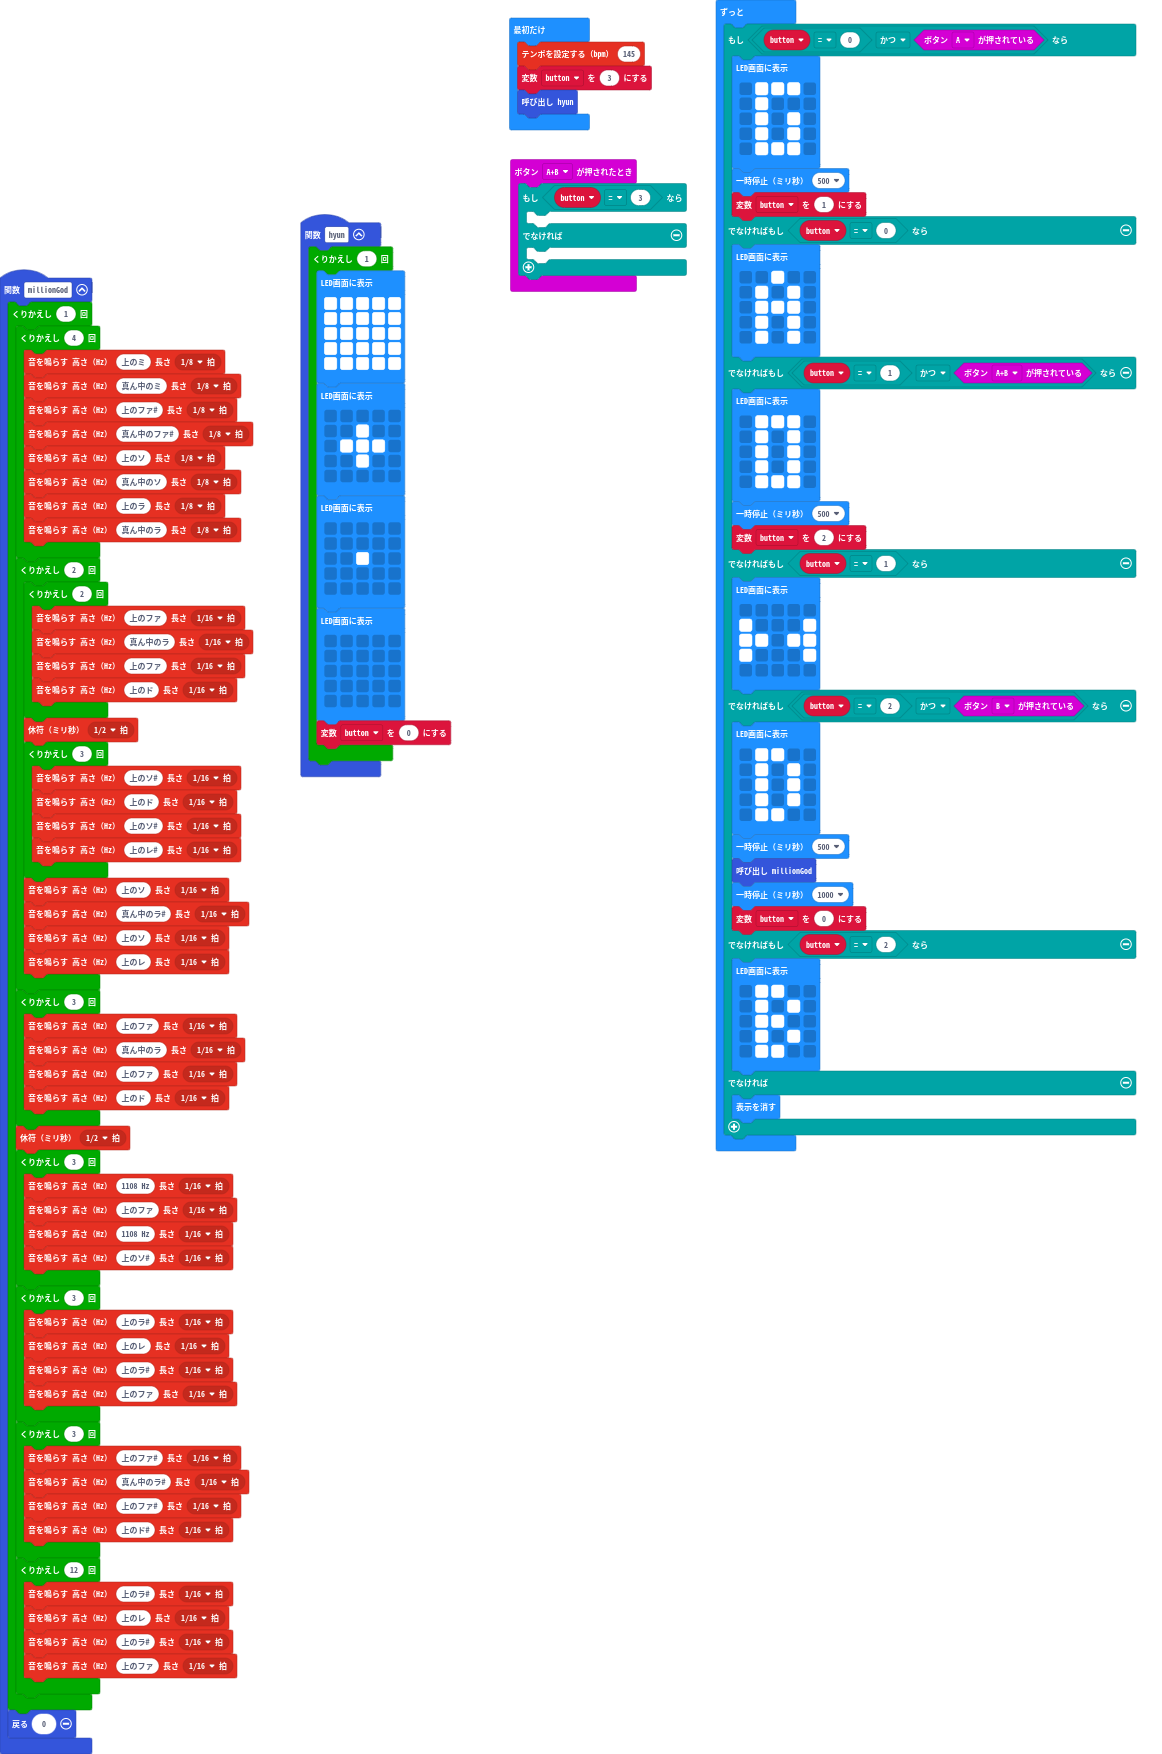
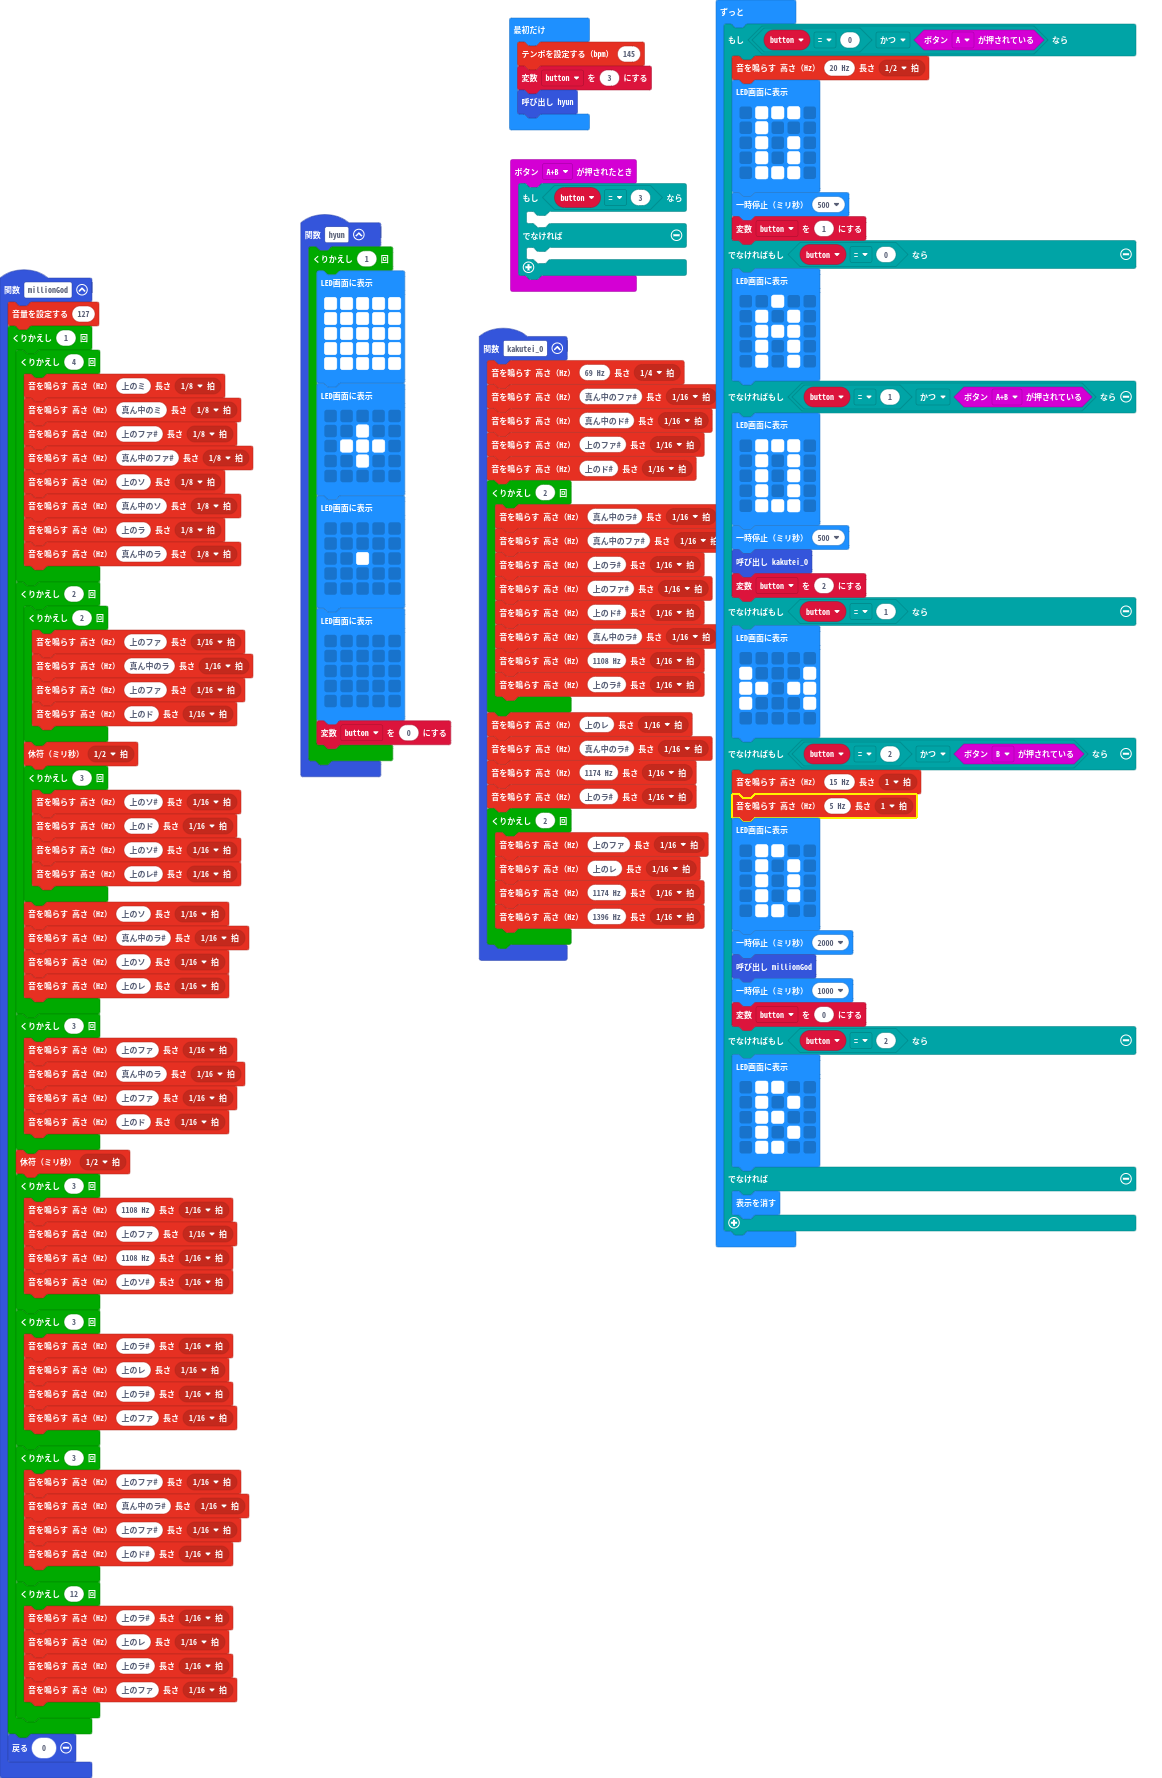
更新 main.blocks, main.ts

Changed region(s): [[0.2478, 0.0, 0.9914, 0.7081], [0.0, 0.1539, 0.2169, 0.9852], [0.8055, 0.0, 0.8985, 0.0308]]

diff --git a/main.ts b/main.ts
@@ -1,3 +1,30 @@
+function kakutei_O () {
+    music.playTone(69, music.beat(BeatFraction.Quarter))
+    music.playTone(370, music.beat(BeatFraction.Sixteenth))
+    music.playTone(277, music.beat(BeatFraction.Sixteenth))
+    music.playTone(740, music.beat(BeatFraction.Sixteenth))
+    music.playTone(554, music.beat(BeatFraction.Sixteenth))
+    for (let index = 0; index < 2; index++) {
+        music.playTone(466, music.beat(BeatFraction.Sixteenth))
+        music.playTone(370, music.beat(BeatFraction.Sixteenth))
+        music.playTone(932, music.beat(BeatFraction.Sixteenth))
+        music.playTone(740, music.beat(BeatFraction.Sixteenth))
+        music.playTone(554, music.beat(BeatFraction.Sixteenth))
+        music.playTone(466, music.beat(BeatFraction.Sixteenth))
+        music.playTone(1108, music.beat(BeatFraction.Sixteenth))
+        music.playTone(932, music.beat(BeatFraction.Sixteenth))
+    }
+    music.playTone(587, music.beat(BeatFraction.Sixteenth))
+    music.playTone(466, music.beat(BeatFraction.Sixteenth))
+    music.playTone(1174, music.beat(BeatFraction.Sixteenth))
+    music.playTone(932, music.beat(BeatFraction.Sixteenth))
+    for (let index = 0; index < 2; index++) {
+        music.playTone(698, music.beat(BeatFraction.Sixteenth))
+        music.playTone(587, music.beat(BeatFraction.Sixteenth))
+        music.playTone(1174, music.beat(BeatFraction.Sixteenth))
+        music.playTone(1396, music.beat(BeatFraction.Sixteenth))
+    }
+}
 input.onButtonPressed(Button.AB, function () {
     if (button == 3) {
     	
@@ -6,6 +33,7 @@ input.onButtonPressed(Button.AB, function () {
     }
 })
 function millionGod () {
+    music.setVolume(127)
     for (let index = 0; index < 1; index++) {
         for (let index = 0; index < 4; index++) {
             music.playTone(659, music.beat(BeatFraction.Eighth))
@@ -109,6 +137,7 @@ button = 3
 hyun()
 basic.forever(function () {
     if (button == 0 && input.buttonIsPressed(Button.A)) {
+        music.playTone(20, music.beat(BeatFraction.Half))
         basic.showLeds(`
             . # # # .
             . # . . .
@@ -135,6 +164,7 @@ basic.forever(function () {
             . # # # .
             `)
         basic.pause(500)
+        kakutei_O()
         button = 2
     } else if (button == 1) {
         basic.showLeds(`
@@ -145,6 +175,8 @@ basic.forever(function () {
             . . . . .
             `)
     } else if (button == 2 && input.buttonIsPressed(Button.B)) {
+        music.playTone(15, music.beat(BeatFraction.Whole))
+        music.playTone(5, music.beat(BeatFraction.Whole))
         basic.showLeds(`
             . # # . .
             . # . # .
@@ -152,7 +184,7 @@ basic.forever(function () {
             . # . # .
             . # # . .
             `)
-        basic.pause(500)
+        basic.pause(2000)
         millionGod()
         basic.pause(1000)
         button = 0
